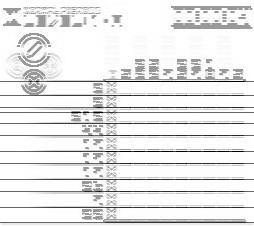
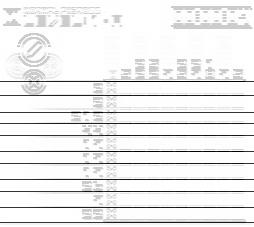
trying new heuristics for edge detection

diff --git a/DetectGrid.py b/DetectGrid.py
@@ -5,7 +5,7 @@
 import Image, ImageDraw
 import ImageFilter
 import ImageOps
-import heapq
+#import heapq
 import Representations
 import prewitt
 from math import floor
@@ -30,7 +30,26 @@ def detect_lines(picture, name):
     xcoords = detect_hv_lines(hor_filt,h)
     ycoords = detect_hv_lines(vert_filt,v)
 
-    xcoords = heapq.nlargest(global_
+    # we'll trust the max coordinates as those are near the edge of the image
+    # and are unlikely to be mistaken compared to the min coordinates
+    max_x = max(xcoords)
+    max_y = max(ycoords)
+    min_x = min(xcoords)
+    min_y = min(ycoords)
+
+    projected_avg_x = (max_x-min_x)/global_board_size
+    projected_avg_y = (max_y-min_y)/global_board_size
+
+    #avg_x = vote_avg_diff(xcoords)
+    #avg_y = vote_avg_diff(ycoords)
+    #avg = (avg_x+avg_y)/2
+    print "avg x diff: {}".format(projected_avg_x)
+    print "avg y diff: {}".format(projected_avg_y)
+
+
+    # get an evenly spaced set of lines
+    #xcoords = extrapolate_coords(max_x, projected_avg_x)
+    #ycoords = extrapolate_coords(max_y, projected_avg_y)
 
     paintedh = paint_lines(hor_filt, xcoords,h)
     paintedh.save("./images/painted_lines_hor_"+name+".jpg")
@@ -47,18 +66,40 @@ def detect_lines(picture, name):
     grid_coords.append((min_y,min_x))
     grid_coords.append((max_y,max_x))
 
+
     print "grid_coords:"
     print grid_coords
 
     draw = ImageDraw.Draw(combined)
-    draw.rectangle(grid_coords,fill=128)
+    draw.rectangle(grid_coords,outline=128)
     del draw
     combined.save("./images/painted_lines_both_"+name+".jpg")
 
     return (xcoords,ycoords)
-    
+
+def extrapolate_coords(start, avg):
+    new_coords = []
+    for i in xrange(global_board_size+1):
+        new_coords.append(floor(start-(i*avg)))
+    return new_coords
+
+def vote_avg_diff(coords):
+    coords.sort()
+    votes = {}
+    prev_coord = -1
+    min_range = -1
+    max_range = 1
+    for coord in coords:
+        diff = coord - prev_coord
+        if prev_coord >= 0:
+            for x in range(min_range,max_range+1):
+                if (x+diff) not in votes : votes[x+diff]=0
+                votes[x+diff]+=1
+        prev_coord = coord
+    return max(votes)
 
 def get_avg_diff(coords):
+    coords.sort()
     sum_diffs = 0
     prev_coord = -1
     for coord in coords:
@@ -80,7 +121,7 @@ def detect_hv_lines(filtered,direction):
     # spot
     num_passes = 20
     threshold = 120
-    window_size = 10
+    window_size = 15
     width,height = filtered.size
     vert_counts = {}
     pic_h = filtered.load()
@@ -140,7 +181,7 @@ def detect_hv_lines(filtered,direction):
 # and remove lines that do not seem to be at the equal spacing
 # found within the actual grid
 def clean_lines(coords):
-    min_space = 4
+    min_space = 8
 
     coords.sort()
     prev_coord = coords[0]
@@ -157,15 +198,16 @@ def clean_lines(coords):
     # now get rid of extraneous lines that are outside the grid
     # and get the average grid width
     avg_diff = get_avg_diff(cleaned_coords)
-    max_tolerated = avg_diff * 3
+    max_tolerated = avg_diff * 2
     min_tolerated = avg_diff * 0.3
     print 'avg_diff: {}'.format(avg_diff)
     
     prev_coord = -1
     for coord in cleaned_coords:
         diff = coord - prev_coord
-        print diff
+        print '{0} to {1} has diff: {2}'.format(prev_coord,coord,diff)
         if (prev_coord >= 0) and ((diff > max_tolerated) or (diff < min_tolerated)):
+            print "{0}--diff removed; {1}--coord removed".format(diff,prev_coord)
             cleaned_coords.remove(prev_coord)
         prev_coord = coord
 
@@ -178,6 +220,7 @@ def paint_lines(picture, coords, direction):
     outpixels = outimg.load()
     v="vertical"
     h="horizontal"
+    print "current coords: {}".format(coords)
     for coord in coords:
         if direction==v:
             max_line = height
@@ -187,21 +230,22 @@ def paint_lines(picture, coords, direction):
             if direction==v:
                 outpixels[coord,i] = 255
             elif direction==h:
+                #print "fail i: {0}\tfail coord: {1}".format(i, coord)
                 outpixels[i,coord] = 255
     print 'coords: {}'.format(coords)
-    return Image.blend(ImageOps.invert(outimg).convert("RGB"),picture.convert("RGB"),0.4)
+    return Image.blend(ImageOps.invert(outimg).convert("RGB"),picture.convert("RGB"),0.2)
 
 
 # testing main
 if __name__=='__main__':
-    test_pic = './red_cropped.jpg'
+    test_pic = './images/red_cropped.jpg'
     image = Image.open(test_pic)
     (xcoords, ycoords) = detect_lines(image,"red")
     print "Red box sizes: (x then y)"
     print get_avg_diff(xcoords)
     print get_avg_diff(ycoords)
 
-    test_pic = './blue.jpg'
+    test_pic = './images/blue.jpg'
     image = Image.open(test_pic)
     (xcoords,ycoords) = detect_lines(image,"blue")
     print "Blue box sizes: (x then y)"
